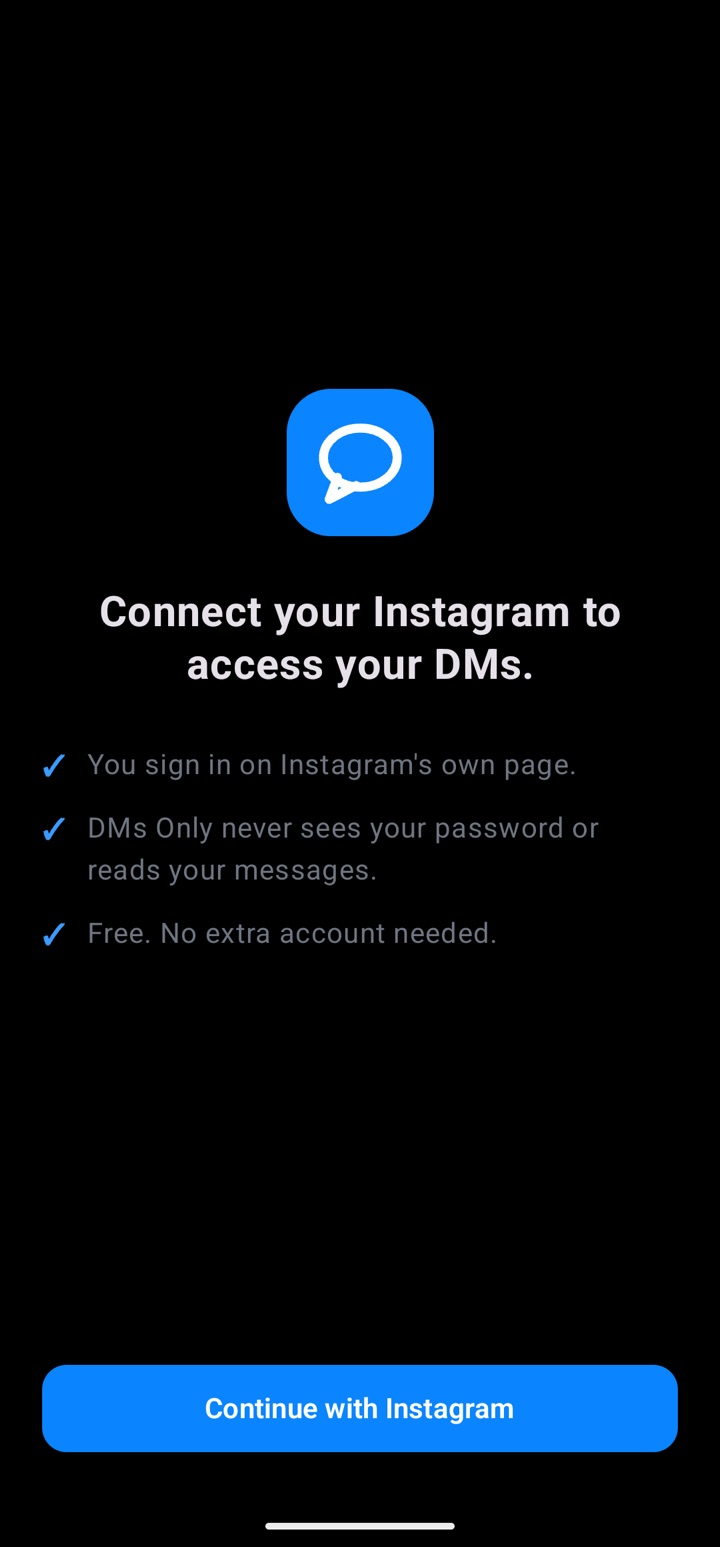
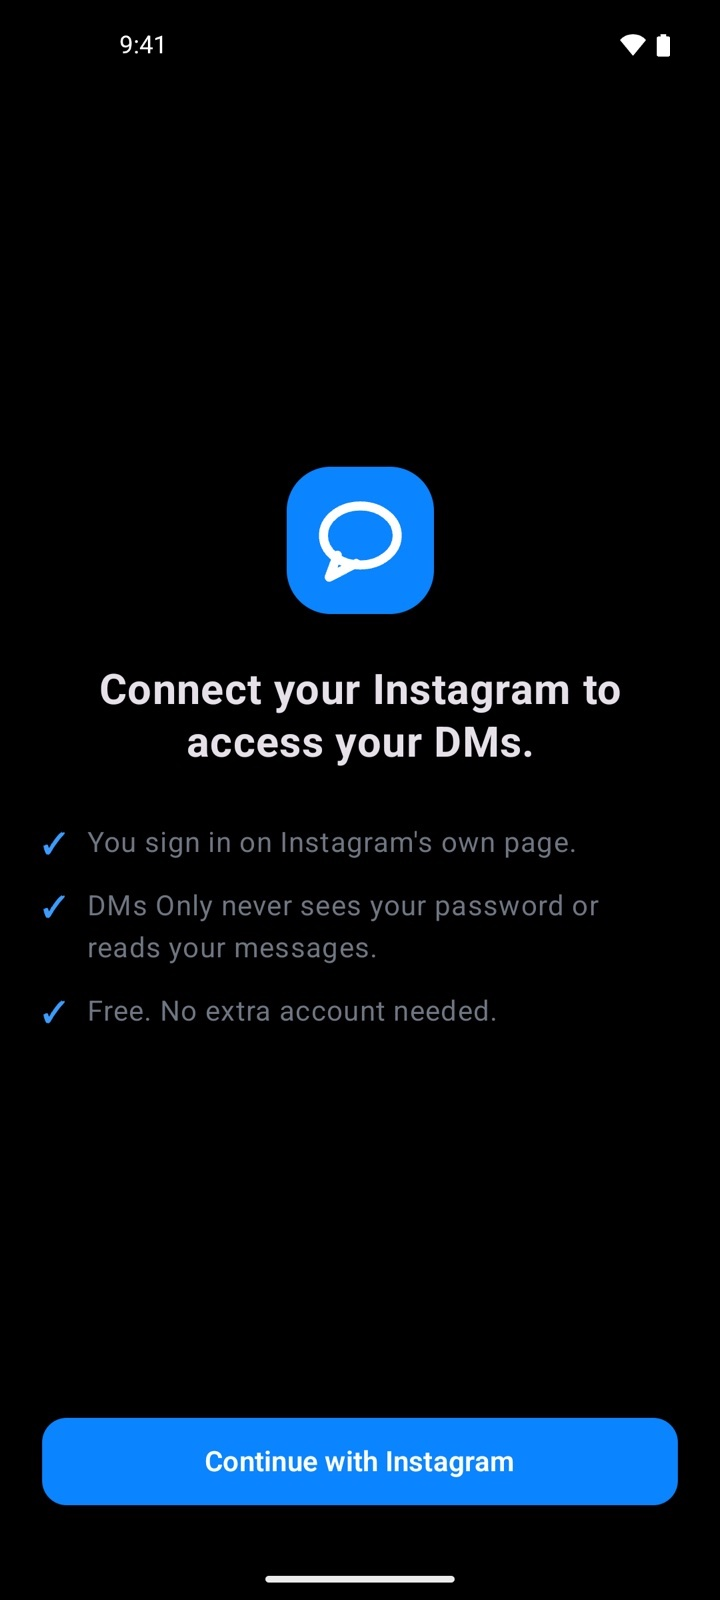
Use real app screenshots with real status bars and two-phone hero

diff --git a/index.html b/index.html
@@ -372,120 +372,41 @@
     }
 
     .screen {
-      container-type: inline-size;
       position: relative;
-      display: flex;
-      flex-direction: column;
       aspect-ratio: 9 / 20;
       overflow: hidden;
       border-radius: 13.4% / 6%;
       background: #000;
     }
 
-    .status {
-      position: relative;
-      display: flex;
-      flex: none;
-      align-items: center;
-      justify-content: space-between;
-      height: 7.4cqw;
-      padding: 0 8cqw 0 9.5cqw;
-      color: #fff;
-      font-size: 3.6cqw;
-      font-weight: 600;
-      letter-spacing: 0.02em;
-    }
-
-    .status::after {
+    /* Punch-hole camera, centred on the screenshot's own status bar. */
+    .screen::before {
       content: "";
       position: absolute;
-      top: 50%;
+      top: 1.95%;
       left: 50%;
-      width: 3.6cqw;
-      height: 3.6cqw;
+      z-index: 1;
+      width: 3.6%;
+      aspect-ratio: 1;
       border-radius: 50%;
-      background: #0b0c0e;
-      box-shadow: inset 0 0 0 0.6cqw #17191d;
-      transform: translate(-50%, -40%);
+      background: radial-gradient(circle at 62% 38%, #1d3156, #050608 62%);
+      box-shadow: 0 0 0 1px #000;
+      transform: translateX(-50%);
     }
 
-    .status svg {
-      height: 3cqw;
-      width: auto;
-      fill: #fff;
+    .screen::after {
+      content: "";
+      position: absolute;
+      inset: 0;
+      background: linear-gradient(118deg, rgba(255, 255, 255, 0.07), rgba(255, 255, 255, 0) 36%);
+      pointer-events: none;
     }
 
     .screen img {
       display: block;
       width: 100%;
-      height: auto;
-      aspect-ratio: 720 / 1547;
-    }
-
-    .lock {
-      display: flex;
-      flex: 1;
-      flex-direction: column;
-      align-items: center;
-      padding: 14cqw 5cqw 0;
-      background: radial-gradient(120% 70% at 30% 10%, #213a72, #0d1631 60%, #070b1a);
-      text-align: center;
-    }
-
-    .lock-time {
-      font-size: 22cqw;
-      font-weight: 300;
-      line-height: 1;
-      letter-spacing: -0.02em;
-    }
-
-    .lock-date {
-      margin-top: 2.5cqw;
-      color: rgba(234, 241, 255, 0.8);
-      font-size: 4.2cqw;
-    }
-
-    .lock-notifs {
-      display: grid;
-      gap: 2.2cqw;
-      width: 100%;
-      margin-top: 16cqw;
-    }
-
-    .notif {
-      display: grid;
-      grid-template-columns: 10cqw 1fr auto;
-      align-items: center;
-      gap: 3cqw;
-      padding: 3.4cqw 3.6cqw;
-      border-radius: 5cqw;
-      background: rgba(234, 241, 255, 0.12);
-      text-align: left;
-    }
-
-    .notif img {
-      width: 10cqw;
-      height: 10cqw;
-      border-radius: 3cqw;
-    }
-
-    .notif strong {
-      display: block;
-      font-size: 3.9cqw;
-    }
-
-    .notif span,
-    .notif time {
-      color: rgba(234, 241, 255, 0.72);
-      font-size: 3.5cqw;
-    }
-
-    .notif time {
-      align-self: start;
-    }
-
-    .notif-old {
-      opacity: 0.6;
+      height: 100%;
+      object-fit: cover;
     }
 
     /* Hero */
@@ -495,6 +416,7 @@
       align-items: center;
       min-height: calc(100svh - var(--header-h));
       padding: 2rem 0 5rem;
+      overflow-x: clip;
     }
 
     .hero .wrap {
@@ -551,10 +473,37 @@
       font-size: 0.9375rem;
     }
 
-    .hero-phone {
-      width: min(18.5rem, 74vw);
+    .hero-phones {
+      position: relative;
+      width: min(27rem, 90vw);
+      aspect-ratio: 2 / 3;
       margin: 0 auto;
-      transform: rotate(4deg);
+    }
+
+    .hero-phones::before {
+      content: "";
+      position: absolute;
+      inset: 18% 8% 10%;
+      border-radius: 50%;
+      background: radial-gradient(closest-side, rgba(11, 114, 231, 0.32), transparent);
+    }
+
+    .hero-phones .device {
+      position: absolute;
+      width: 64%;
+    }
+
+    .hero-phones .back {
+      top: 7%;
+      left: 0;
+      filter: brightness(0.55) saturate(0.9);
+      transform: rotate(-7deg);
+    }
+
+    .hero-phones .front {
+      top: 0;
+      right: 0;
+      transform: rotate(5deg);
     }
 
     .scroll-hint {
@@ -1236,12 +1185,6 @@
       <symbol id="sparkle" viewBox="0 0 24 24">
         <path d="M12 1c.9 5.8 4.2 9.1 11 11-6.8 1.9-10.1 5.2-11 11-.9-5.8-4.2-9.1-11-11 6.8-1.9 10.1-5.2 11-11z"/>
       </symbol>
-      <symbol id="status-icons" viewBox="0 0 62 14">
-        <path d="M7 13 .5 5.2C2.3 3.6 4.6 2.6 7 2.6s4.7 1 6.5 2.6z"/>
-        <path d="M18 13h3V9h-3zm5 0h3V6h-3zm5 0h3V3h-3zm5 0h3V0h-3z"/>
-        <rect x="41" y="1.5" width="17.5" height="11" rx="2.5"/>
-        <rect x="59.3" y="5" width="1.8" height="4" rx=".9"/>
-      </symbol>
       <symbol id="arrow-right" viewBox="0 0 16 16">
         <path d="M3 8h9.5M8.5 4l4 4-4 4" fill="none" stroke="currentColor" stroke-width="1.8" stroke-linecap="round" stroke-linejoin="round"/>
       </symbol>
@@ -1304,11 +1247,15 @@
             </div>
             <p class="note">Free. No extra account needed.</p>
           </div>
-          <div class="hero-phone">
-            <div class="device">
+          <div class="hero-phones">
+            <div class="device back" aria-hidden="true">
               <div class="screen">
-                <div class="status" aria-hidden="true"><span>9:41</span><svg><use href="#status-icons"/></svg></div>
-                <img src="screens/welcome.jpg" width="720" height="1547" fetchpriority="high" alt="DMs Only welcome screen: Instagram without the Feed, Reels or Explore.">
+                <img src="screens/block.jpg" width="720" height="1600" alt="">
+              </div>
+            </div>
+            <div class="device front">
+              <div class="screen">
+                <img src="screens/welcome.jpg" width="720" height="1600" fetchpriority="high" alt="DMs Only welcome screen: Instagram without the Feed, Reels or Explore.">
               </div>
             </div>
           </div>
@@ -1329,8 +1276,7 @@
             <div class="card-visual">
               <div class="device">
                 <div class="screen">
-                  <div class="status" aria-hidden="true"><span>9:41</span><svg><use href="#status-icons"/></svg></div>
-                  <img src="screens/no-feed.jpg" width="720" height="1547" loading="lazy" decoding="async" alt="Screen showing that the Feed, Reels and Explore are removed.">
+                  <img src="screens/no-feed.jpg" width="720" height="1600" loading="lazy" decoding="async" alt="Screen showing that the Feed, Reels and Explore are removed.">
                 </div>
               </div>
             </div>
@@ -1344,8 +1290,7 @@
             <div class="card-visual">
               <div class="device">
                 <div class="screen">
-                  <div class="status" aria-hidden="true"><span>9:41</span><svg><use href="#status-icons"/></svg></div>
-                  <img src="screens/messages-stay.jpg" width="720" height="1547" loading="lazy" decoding="async" alt="Screen showing that DMs, group chats, voice notes and Stories are kept.">
+                  <img src="screens/messages-stay.jpg" width="720" height="1600" loading="lazy" decoding="async" alt="Screen showing that DMs, group chats, voice notes and Stories are kept.">
                 </div>
               </div>
             </div>
@@ -1359,23 +1304,7 @@
             <div class="card-visual">
               <div class="device">
                 <div class="screen">
-                  <div class="status" aria-hidden="true"><span>9:41</span><svg><use href="#status-icons"/></svg></div>
-                  <div class="lock" role="img" aria-label="Lock screen with a DMs Only notification: 3 unread conversations.">
-                    <div class="lock-time">9:41</div>
-                    <div class="lock-date">Sunday, October 25</div>
-                    <div class="lock-notifs">
-                      <div class="notif">
-                        <img src="favicon.svg" alt="" width="40" height="40">
-                        <div><strong>DMs Only</strong><span>3 unread conversations</span></div>
-                        <time>now</time>
-                      </div>
-                      <div class="notif notif-old">
-                        <img src="favicon.svg" alt="" width="40" height="40">
-                        <div><strong>DMs Only</strong><span>1 unread conversation</span></div>
-                        <time>15m</time>
-                      </div>
-                    </div>
-                  </div>
+                  <img src="screens/settings.jpg" width="720" height="1600" loading="lazy" decoding="async" alt="DMs Only Settings with Block Instagram and Unread message alerts turned on.">
                 </div>
               </div>
             </div>
@@ -1389,8 +1318,7 @@
             <div class="card-visual">
               <div class="device">
                 <div class="screen">
-                  <div class="status" aria-hidden="true"><span>9:41</span><svg><use href="#status-icons"/></svg></div>
-                  <img src="screens/lock-app.jpg" width="720" height="1547" loading="lazy" decoding="async" alt="Screen explaining the optional Instagram lock with two 5 minute passes a day.">
+                  <img src="screens/block.jpg" width="720" height="1600" loading="lazy" decoding="async" alt="Block screen shown over the Instagram app: Instagram is blocked by DMs Only.">
                 </div>
               </div>
             </div>
@@ -1408,8 +1336,7 @@
           <div class="split-visual" data-reveal>
             <div class="device">
               <div class="screen">
-                <div class="status" aria-hidden="true"><span>9:41</span><svg><use href="#status-icons"/></svg></div>
-                <img src="screens/sign-in.jpg" width="720" height="1547" loading="lazy" decoding="async" alt="Sign in screen: you sign in on Instagram's own page and DMs Only never sees your password.">
+                <img src="screens/sign-in.jpg" width="720" height="1600" loading="lazy" decoding="async" alt="Sign in screen: you sign in on Instagram's own page and DMs Only never sees your password.">
               </div>
             </div>
           </div>
